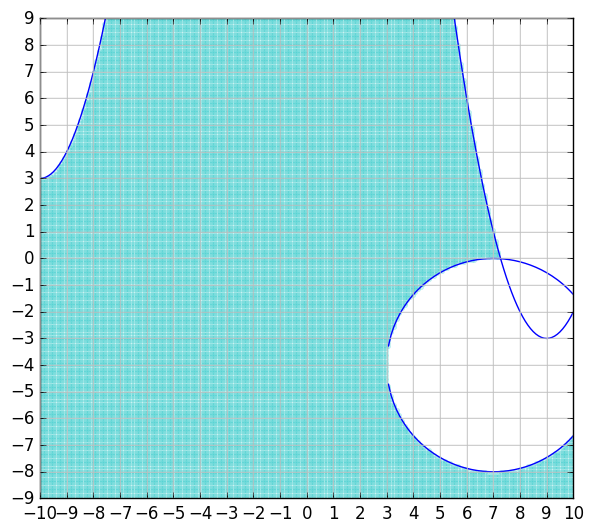
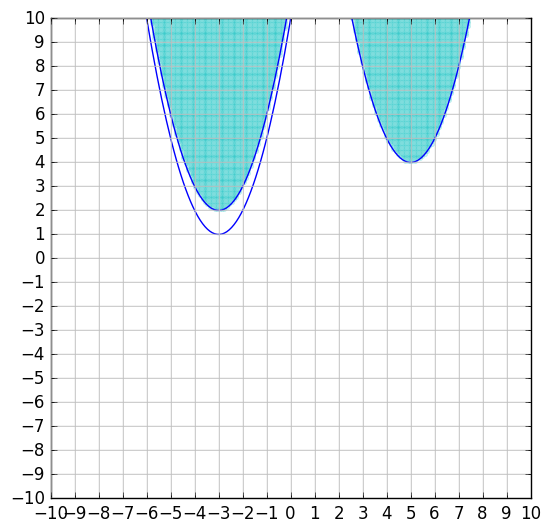
Last working version. Without generator generator
There are no generator and check generator functions

diff --git a/SolveFunGenerator.py b/SolveFunGenerator.py
@@ -1,5 +1,7 @@
 import random
 import IsInside
+import numpy as np
+import math
 def GenerateLine(points, znak):
     i = random.randint(0, len(points) - 2)
     B = points[i][1] - points[i + 1][1]
@@ -17,9 +19,11 @@ def GenerateCircle(points, znak):
     y1 = points[a][1]
     j = random.randint(0, len(znak)-1)
     #return ['(x - ' + str(x1) + ')**2' + '+ (y - ' + str(y1) + ')**2' + str(znak[j]) + str(r) + '**2', '(x - ' + str(x1) + ')**2' + '+ (y - ' + str(y1) + ')**2' + '=' + str(r) + '**2']
+    #return ['(x - ' + str(x1) + ')**2' + '+ (y - ' + str(y1) + ')**2' + str(znak[j]) + str(r) + '**2',
+    #       'y2 = (' + str(r) + '**2 - (x - ' + str(x1) + ')**2)**(0.5) + ' + str(y1),
+    #        'y2 = -(' + str(r) + '**2 - (x - ' + str(x1) + ')**2)**(0.5) + ' + str(y1)]
     return ['(x - ' + str(x1) + ')**2' + '+ (y - ' + str(y1) + ')**2' + str(znak[j]) + str(r) + '**2',
-            'y2 = (' + str(r) + '**2 - (x - ' + str(x1) + ')**2)**(0.5) + ' + str(y1),
-            'y2 = -(' + str(r) + '**2 - (x - ' + str(x1) + ')**2)**(0.5) + ' + str(y1)]
+            [x1, y1, r]]
 def GenerateParabola(points, znak):
     a = random.randint(0, len(points)-1)
     x1 = points[a][0]
@@ -31,12 +35,12 @@ def GenerateInsidePoints():
     points = []
     pointtemp = []
     for i in range(8):
-        pointtemp.append(random.randint(-10, 10))
-        pointtemp.append(random.randint(-10, 10))
+        pointtemp.append(random.randint(-5, 5))
+        pointtemp.append(random.randint(-5, 5))
         while IsInside.IsInside(pointtemp[0], pointtemp[1]) == 0:
             pointtemp = []
-            pointtemp.append(random.randint(-10, 10))
-            pointtemp.append(random.randint(-10, 10))
+            pointtemp.append(random.randint(-5, 5))
+            pointtemp.append(random.randint(-5, 5))
         if pointtemp[0] > maxX:
             maxX = pointtemp[0]
         if pointtemp[0] < minX:
@@ -53,8 +57,8 @@ def GenerateFun(diff):
     points = []
     pointtemp = []
     for i in range(8):
-        pointtemp.append(random.randint(-10, 10))
-        pointtemp.append(random.randint(-10, 10))
+        pointtemp.append(random.randint(-5, 5))
+        pointtemp.append(random.randint(-5, 5))
         if pointtemp[0] > maxX:
             maxX = pointtemp[0]
         if pointtemp[0] < minX:
@@ -83,7 +87,7 @@ def GenerateFun(diff):
         elif i == 2:
             Circle = GenerateCircle(points, znak)
             graphs.append(Circle[1])
-            graphs.append(Circle[2])
+            #graphs.append(Circle[2])
             if flag:
                 funct += logicznak[j] + '( ' + Circle[0] + ' )'
             else:
@@ -150,11 +154,21 @@ f1.write('            x1.append(i)\n')
 f1.write('            y1.append(j)\n')
 f1.write('plt.plot(x1, y1, \'c.\', alpha=0.2)\n')
 for i in range(len(funct)-1):
-    f1.write(funct[i] + '\n')
-    f1.write('plt.plot(x, y2, \'b\')\n')
+    aaaa = len(funct[i])
+    if len(funct[i]) != 3:
+        f1.write(funct[i] + '\n')
+        f1.write('plt.plot(x, y2, \'b\')\n')
+    else:
+        f1.write('Circle = [' + str(funct[i][0]) + '+' + str(funct[i][2]) + '* np.cos(np.linspace(0, 2 * math.pi, 1000)), ' + str(funct[i][1]) + '+' + str(funct[i][2]) + '* np.sin(np.linspace(0, 2 * math.pi, 1000))]\n')
+        f1.write('plt.plot(Circle[0], Circle[1])\n')
+        #f1.write('y2 = ' + str(funct[i][0]) + '\n')
+        #f1.write('x2 = ' + str(funct[i][1]) + '\n')
+        #f1.write('plt.plot(x2, y2, \'b\')\n')
 f1.write('axes = plt.gca()\n')
-f1.write('axes.set_xlim(' + str(minX) + ', ' + str(maxX) + ')\n')
-f1.write('axes.set_ylim(' + str(minY) + ', ' + str(maxY) + ')\n')
+#f1.write('axes.set_xlim(' + str(minX) + ', ' + str(maxX) + ')\n')
+#f1.write('axes.set_ylim(' + str(minY) + ', ' + str(maxY) + ')\n')
+f1.write('axes.set_xlim(-10, 10)\n')
+f1.write('axes.set_ylim(-10, 10)\n')
 f1.write('axes.xaxis.set_major_locator(plt.MultipleLocator(1.0))\n')
 f1.write('axes.xaxis.set_minor_locator(plt.MultipleLocator(1.0))\n')
 f1.write('axes.yaxis.set_major_locator(plt.MultipleLocator(1.0))\n')

diff --git a/SolveGraph.py b/SolveGraph.py
@@ -6,7 +6,7 @@ import random
 def solve(dataset):
     x, y = dataset.split()
     x, y = float(x), float(y)
-    if ( y <(x--10)**2+3 )&( y <(x-9)**2+-3 )&( (x - 7)**2+ (y - -4)**2>4**2 ):
+    if ( y >(x--3)**2+1 )&( y >(x--3)**2+2 )|( y >(x-5)**2+4 ):
         return 1
     else:
         return 0
@@ -20,17 +20,15 @@ for i in x:
             x1.append(i)
             y1.append(j)
 plt.plot(x1, y1, 'c.', alpha=0.2)
-y2 =(x--10)**2+3
+y2 =(x--3)**2+1
 plt.plot(x, y2, 'b')
-y2 =(x-9)**2+-3
+y2 =(x--3)**2+2
 plt.plot(x, y2, 'b')
-y2 = (4**2 - (x - 7)**2)**(0.5) + -4
-plt.plot(x, y2, 'b')
-y2 = -(4**2 - (x - 7)**2)**(0.5) + -4
+y2 =(x-5)**2+4
 plt.plot(x, y2, 'b')
 axes = plt.gca()
 axes.set_xlim(-10, 10)
-axes.set_ylim(-9, 9)
+axes.set_ylim(-10, 10)
 axes.xaxis.set_major_locator(plt.MultipleLocator(1.0))
 axes.xaxis.set_minor_locator(plt.MultipleLocator(1.0))
 axes.yaxis.set_major_locator(plt.MultipleLocator(1.0))

diff --git a/Solve.py b/Solve.py
@@ -1,7 +1,7 @@
 def solve(dataset):
     x, y = dataset.split()
     x, y = float(x), float(y)
-    if ( y <(x--10)**2+3 )&( y <(x-9)**2+-3 )&( (x - 7)**2+ (y - -4)**2>4**2 ):
+    if ( y >(x--3)**2+1 )&( y >(x--3)**2+2 )|( y >(x-5)**2+4 ):
         return 1
     else:
         return 0

diff --git a/IsInside.py b/IsInside.py
@@ -1,5 +1,5 @@
 def IsInside(x, y):
-    if y <(x--10)**2+3:
+    if y >(x--3)**2+1:
         return 1
     else:
         return 0
